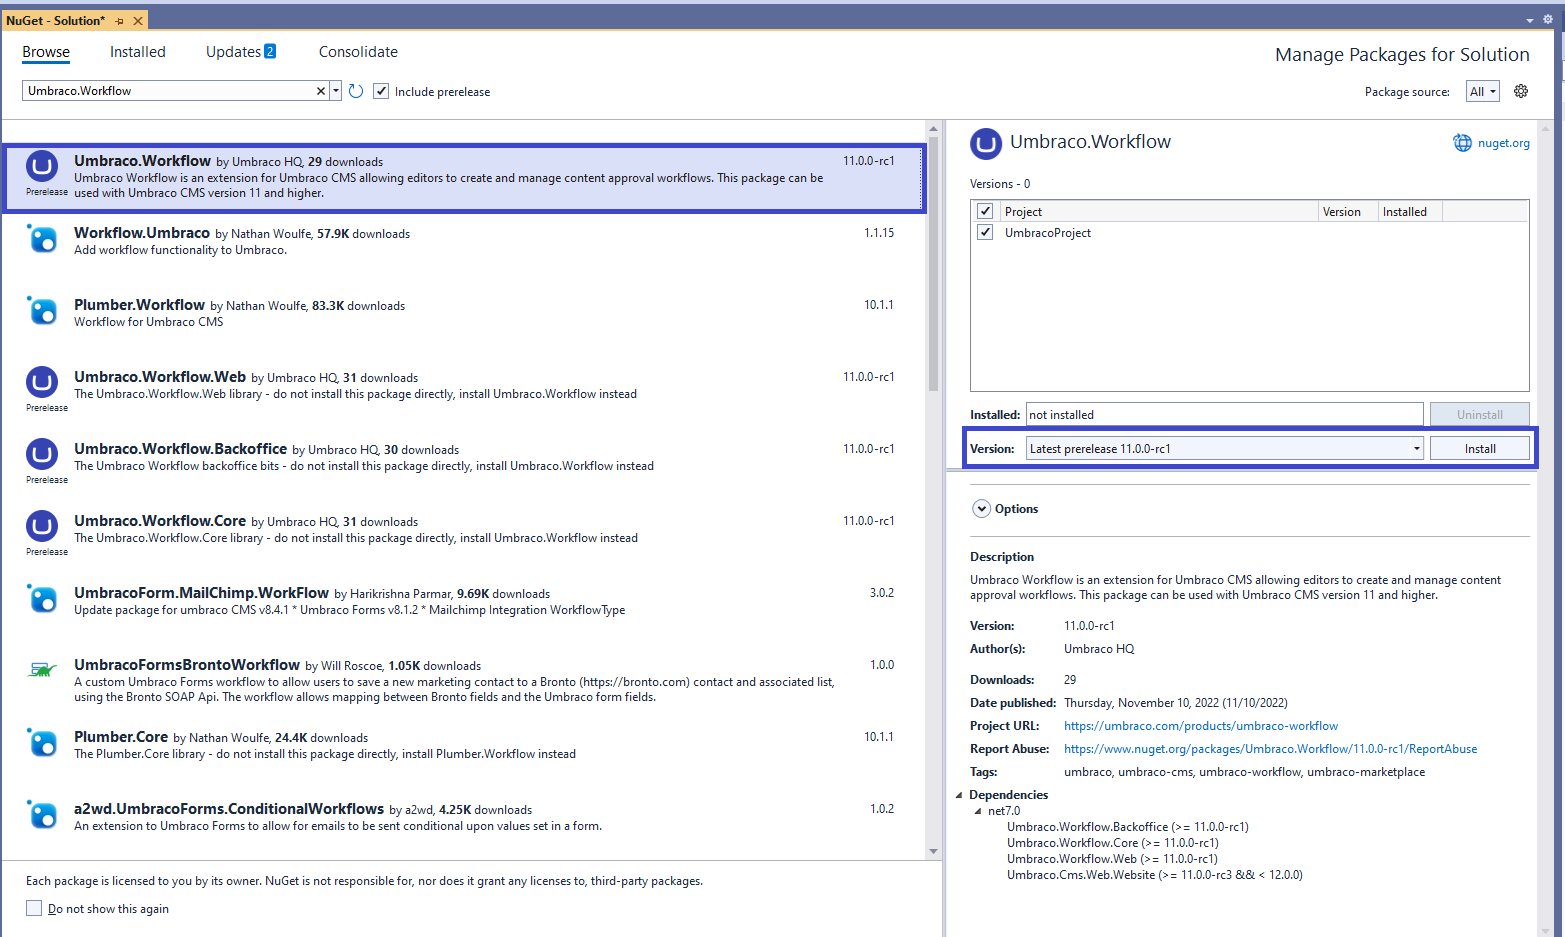
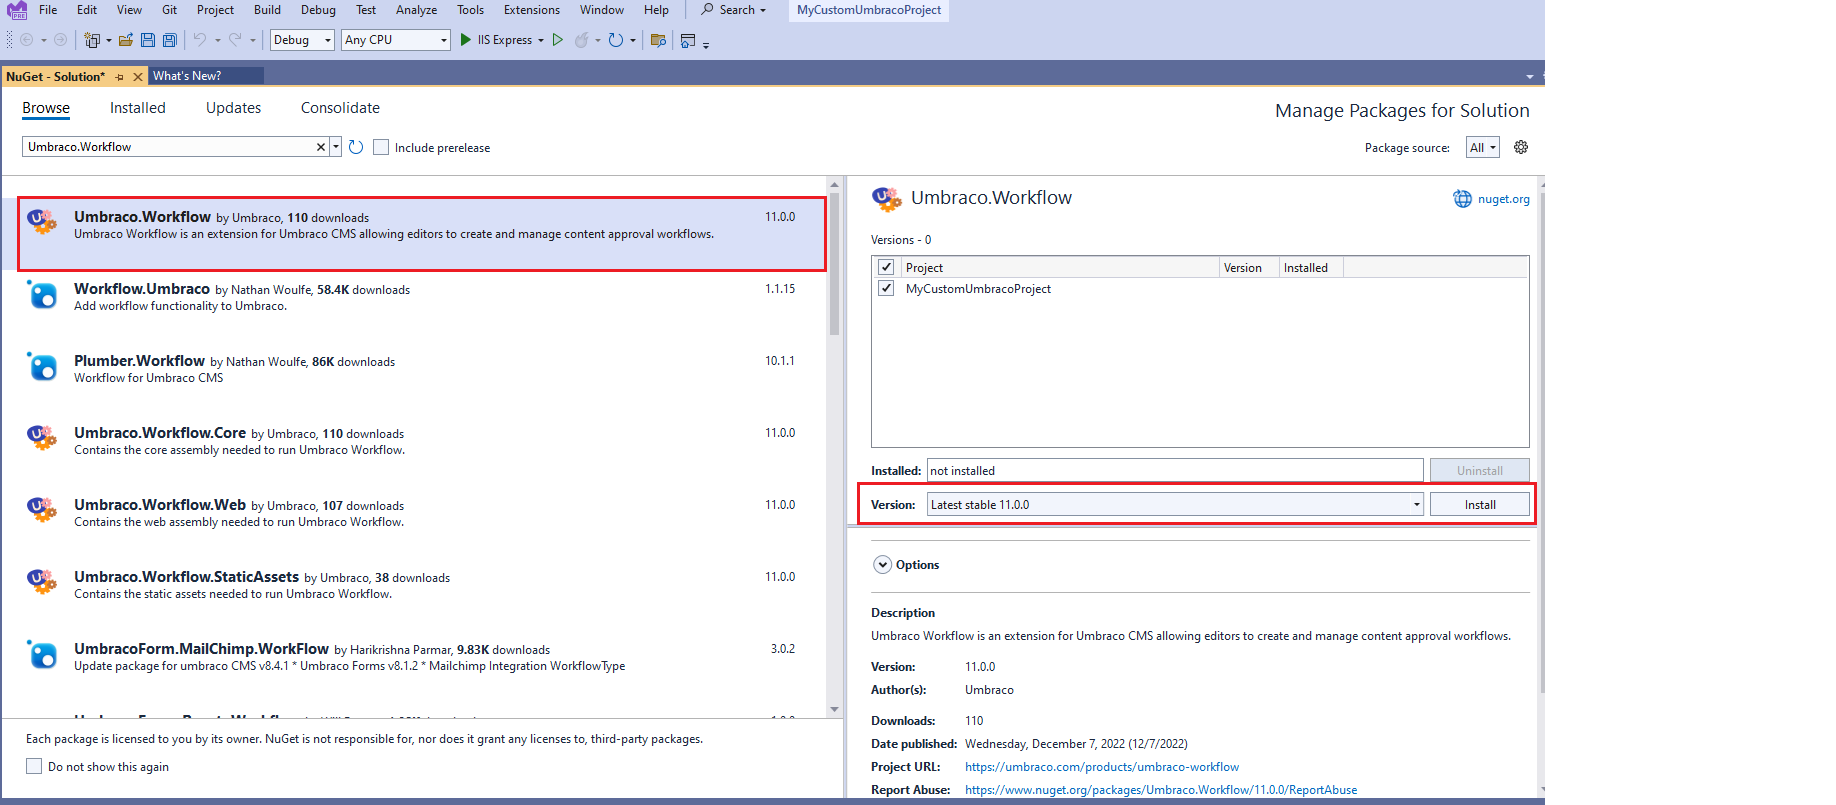
Updated images and minor fixes

diff --git a/umbraco-workflow/upgrading-workflow.md b/umbraco-workflow/upgrading-workflow.md
@@ -15,7 +15,7 @@ To get the latest version of Umbraco Workflow, you can upgrade using either of t
 
 ### NuGet
 
-*   NuGet installs the latest version of the package when you use the `dotnet add package Umbraco.Workflow` command unless you specify a package version:\
+*   NuGet installs the latest version of the package when you use the `dotnet add package Umbraco.Workflow` command unless you specify a package version:
 
 
     `dotnet add package Umbraco.Workflow --version <VERSION>`
@@ -25,10 +25,10 @@ To get the latest version of Umbraco Workflow, you can upgrade using either of t
 
 * Go to `Tools` -> `NuGet Package Manager` -> `Manage NuGet Packages for Solution...` in Visual Studio, to upgrade Umbraco Workflow:
 * Select **Umbraco.Workflow**.
-*   Select the latest version from the **Version** drop-down and click **Install**.\
+*   Select the latest version from the **Version** drop-down and click **Install**.
 
 
-    ![NuGet Package Manager](images/Manage\_packages\_v11.png)
+    ![NuGet Package Manager](images/Manage-packages-v11.png)
 *   Open the **.csproj** file to make sure the package reference is updated:
 
     ```xml

diff --git a/umbraco-workflow/installing-workflow.md b/umbraco-workflow/installing-workflow.md
@@ -36,7 +36,7 @@ To install via Visual Studio, follow these steps:
 2. Go to **Tools** -> **NuGet Package Manager** -> **Manage NuGet Packages for Solution...**.
 3. Browse for **Umbraco.Workflow**.
 4. Select the appropriate version from the Version drop-down depending on the Umbraco version you are using.
-5.  Click Install.\
+5.  Click Install.
     &#x20;
 
     <figure><img src="images/VS_Installation.png" alt=""><figcaption></figcaption></figure>

diff --git a/umbraco-workflow/configuration.md b/umbraco-workflow/configuration.md
@@ -1,6 +1,6 @@
 # Configuration
 
-With Umbraco Workflow it's possible to customize the functionality with different configuration values.
+With Umbraco Workflow, it is possible to customize the functionality with different configuration values.
 
 ## Editing configuration values
 
